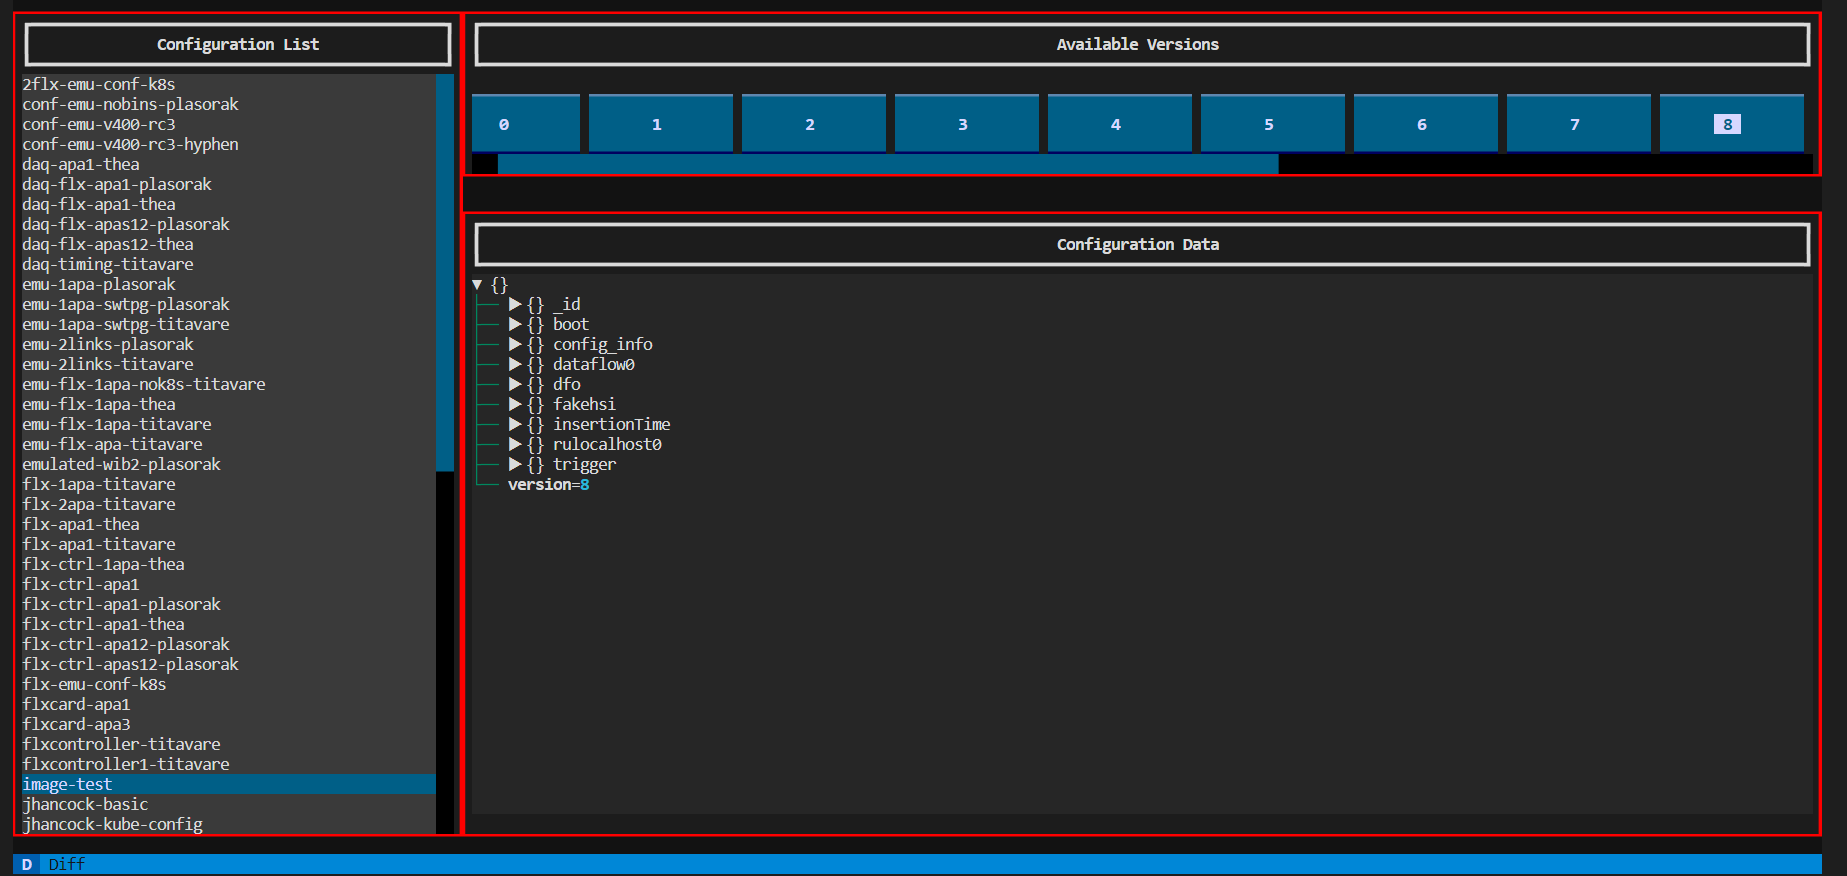
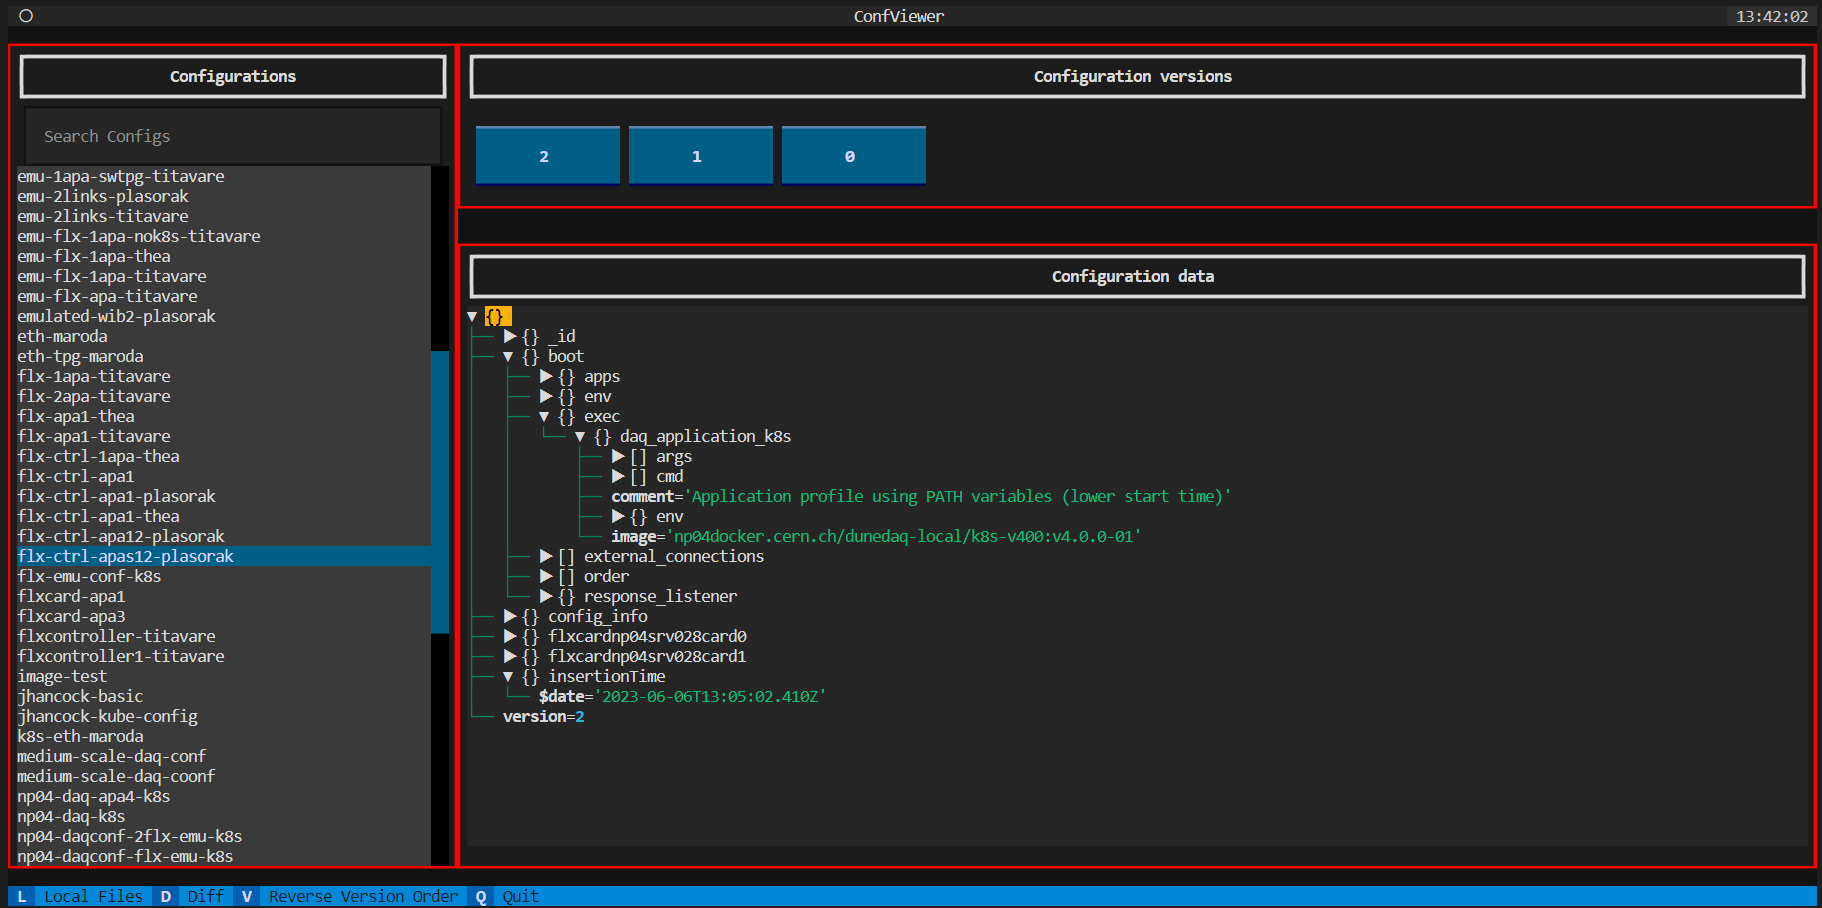
""

Changed region(s): [[0.0, 0.0, 1.0, 1.0]]

diff --git a/docs/packages/daqconf/ConfigDatabase.md b/docs/packages/daqconf/ConfigDatabase.md
@@ -9,15 +9,27 @@ _nanorc_ should then be started with `nanorc --pm k8s://np04-srv-015:31000 db://
 Keep in mind that the config directory can contain underscores, but the name it will be given in the database cannot (hyphens are fine).
 
 ## Viewing configurations
-To inspect the contents of the database, run `daqconf_viewer` after setting up the software environment. This will open a graphical UI in the terminal.
+To inspect the contents of the database, run `daqconf_viewer` after setting up the software environment. This will open a graphical UI in the terminal. There are three optional arguments that can be provided:
+
+* --host to manually enter the host of the microservice (defaults to http://np04-srv-023)
+
+* --port to manually enter the port that the service listens on (defaults to 31011)
+
+* --dir to tell the config viewer where to look for local config files (defaults to ./)
 ![Config Viewer](ConfViewerScreenshot.png)
-A list of all configuration names is shown on the left. 
-Clicking one of them will generate a list of buttons at the top, corresponding to the saved versions of the config.
-Press one of those buttons to bring up the config file in the display box. By clicking the arrows, the contents of each sub-schema can be expanded.
+
+A list of all configuration names is shown on the left. It can be filtered using the search bar above it. 
+Clicking one of these names will generate a list of buttons at the top, corresponding to the saved versions of the config.
+The versions are displayed in descending order by default, but this can be changed with the V key.
+Click one of the buttons to bring up the config file in the display box. By clicking the arrows, the contents of each sub-schema can be expanded.
+
+Additionally, you can press the L key to switch between viewing the database and viewing local files. The config list will be replaced with a tree representing the contents of the directory given with --dir.
+![Local Configs](ConfViewerLocalScreenshot.png)
 
 Pressing the D key after picking a config will take you to a very similar screen, albeit with green lines instead of red. 
 If a second config is selected using the previously defined process, then a "diff" of the two will be generated, showing all the 
 differences between the two in a format similar to how commits are displayed on github.
+Again, the L key can be used to switch to local files, allowing for comparisons of local and DB configs in any combination.
 Finally, once you are done press q to quit (or use ctrl+c).
 
 
@@ -29,7 +41,7 @@ _Last git commit to the markdown source of this page:_
 
 _Author: Jonathan Hancock_
 
-_Date: Fri Jun 30 14:04:51 2023 +0200_
+_Date: Thu Jul 13 14:10:33 2023 +0200_
 
 _If you see a problem with the documentation on this page, please file an Issue at [https://github.com/DUNE-DAQ/daqconf/issues](https://github.com/DUNE-DAQ/daqconf/issues)_
 </font>

diff --git a/docs/packages/daqconf/README.md b/docs/packages/daqconf/README.md
@@ -6,9 +6,13 @@ The focus of this documentation is on providing instructions for using the tools
 
 [Instructions for casual or first-time users](InstructionsForCasualUsers.md)
 
-and for a slightly more in-depth look into how to generate configurations for a DAQ system, take a look at:
+For a slightly more in-depth look into how to generate configurations for a DAQ system, take a look at:
 
 [Configuration options for casual or first-time users](ConfigurationsForCasualUsers.md)
+
+If you want to view existing configs stored in the MongoDB, take a look at:
+
+[Interacting with the Configuration Database](ConfigDatabase.md)
 
 Traditionally multiple command line options were passed to `daqconf_multiru_gen` in order to control how it generated configurations. However, for the `dunedaq-v3.2.0` release (September 2022) we're switching to passing a single JSON file whose contents contain the information needed to control `daqconf_multiru_gen`. For `daqconf_multiru_gen` users who want to learn about how to make the switch to this new approach, take a look at [these migration instructions](MigratingToNewConfgen.md).
 
@@ -87,9 +91,9 @@ Note that daqconf will _not_ use an expired asset.
 _Last git commit to the markdown source of this page:_
 
 
-_Author: Pierre Lasorak_
+_Author: Jonathan Hancock_
 
-_Date: Tue Feb 28 16:24:57 2023 +0100_
+_Date: Thu Jul 13 15:10:27 2023 +0200_
 
 _If you see a problem with the documentation on this page, please file an Issue at [https://github.com/DUNE-DAQ/daqconf/issues](https://github.com/DUNE-DAQ/daqconf/issues)_
 </font>
